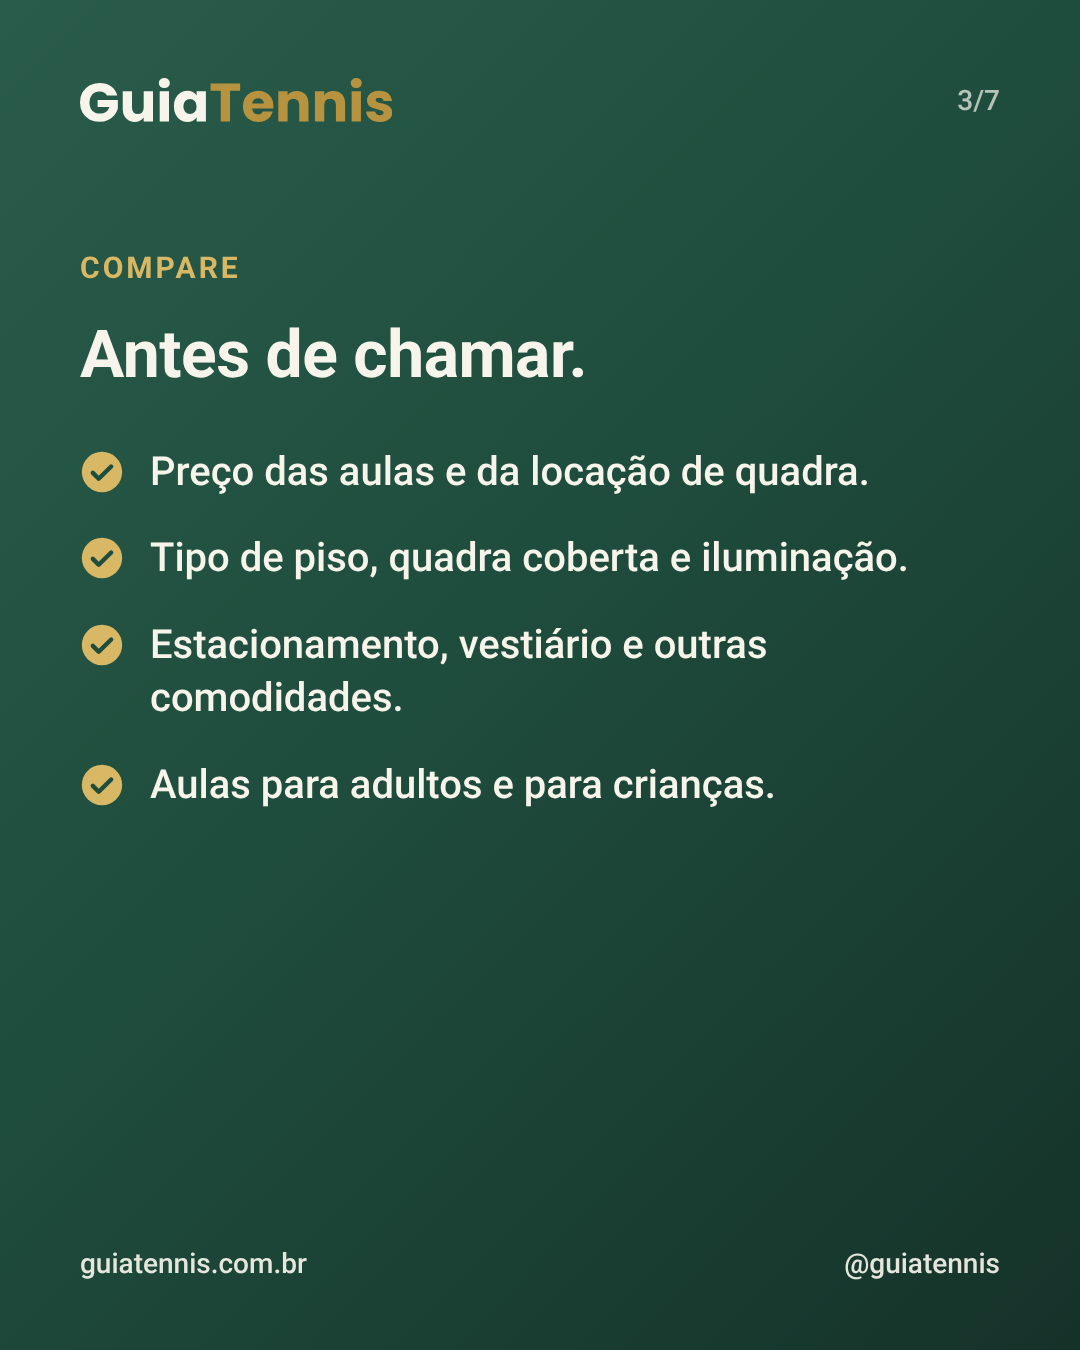
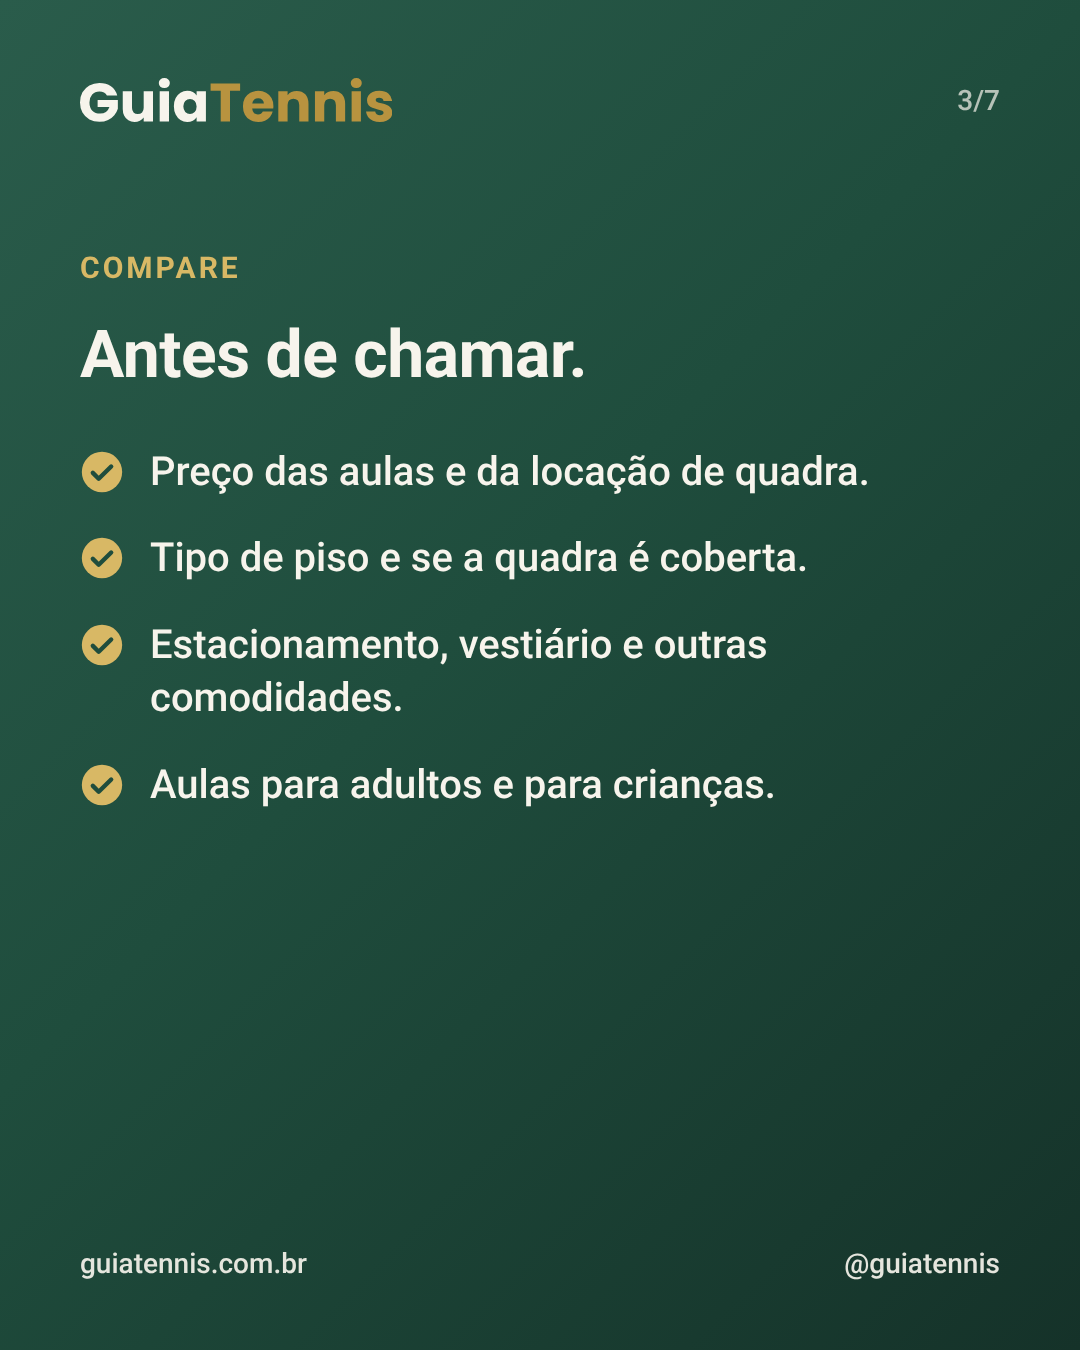
Kit do Instagram conferido com o site: sem filtro Crianças na busca, recursos por plano e sem prometer preço em todas
Claude-Session: https://claude.ai/code/session_013HDjzM8Wjp8KK1LoemJUSu

Changed region(s): [[0.3361, 0.4044, 0.825, 0.4356]]

diff --git a/divulgacao/lancamento/gerar-lancamento.js b/divulgacao/lancamento/gerar-lancamento.js
@@ -25,7 +25,7 @@ const UI = {
   busca: (claro) => painel(`
     <div style="display:flex;align-items:center;gap:22px;padding:28px 30px;border-radius:20px;background:${CREME};border:2px solid rgba(31,77,61,.2)">${lupa(VERDE)}<span style="font-size:40px;font-weight:500;color:${VERDE}">Moema, São Paulo</span><span style="width:3px;height:44px;background:${DOURADO}"></span></div>
     <div style="display:flex;align-items:center;gap:16px;margin-top:28px;font-size:34px;font-weight:700;color:${claro ? VERDE : DOURADO_CLARO}">${mira(claro ? VERDE : DOURADO_CLARO)} Usar minha localização</div>`, claro),
-  filtros: (claro) => painel(`<div style="display:flex;flex-wrap:wrap;gap:18px">${[['Aulas', 1], ['Locação', 0], ['Coberta', 1], ['Saibro', 0], ['Rápida', 0], ['Crianças', 0], ['Quadras públicas', 0]].map(([n, on]) => `
+  filtros: (claro) => painel(`<div style="display:flex;flex-wrap:wrap;gap:18px">${[['Aulas', 1], ['Locação', 0], ['Coberta', 1], ['Saibro', 0], ['Rápida', 0], ['Aberto agora', 0], ['Quadras públicas', 0]].map(([n, on]) => `
     <span style="padding:16px 28px;border-radius:999px;font-size:32px;font-weight:600;${on ? `background:${claro ? VERDE : DOURADO_CLARO};color:${claro ? CREME : VERDE}` : `border:2px solid ${claro ? 'rgba(31,77,61,.35)' : 'rgba(247,244,236,.4)'};color:${claro ? VERDE : CREME}`}">${n}</span>`).join('')}</div>
     <div style="margin-top:30px;font-size:30px;font-weight:500;opacity:.8">Ordenar: <b>Mais perto</b> · Mais bem avaliadas · Menor preço</div>`, claro),
   ficha: (claro) => painel(['Opções para jogar, com os preços', 'Estrutura: piso, cobertura e comodidades', 'Avaliações de quem joga', 'Horário e como chegar'].map((x, i) => `
@@ -85,7 +85,7 @@ function stories({ eyebrow = '', titulo = '', texto = '' }) {
 const passoAPasso = [
   { grande: true, quadra: 560, eyebrow: 'Passo a passo', titulo: 'Como encontrar aula de tênis perto de você em 1 minuto.', texto: 'Salve para usar quando precisar.', rodape: 'Deslize ›' },
   { tom: 'creme', ui: 'busca', eyebrow: 'Passo 1', titulo: 'Diga onde você está.', texto: 'Em guiatennis.com.br, digite o bairro ou o CEP, ou toque em "Usar minha localização".' },
-  { ui: 'filtros', eyebrow: 'Passo 2', titulo: 'Filtre do seu jeito.', texto: 'Aula ou locação, piso, quadra coberta e aulas para crianças.' },
+  { ui: 'filtros', eyebrow: 'Passo 2', titulo: 'Filtre do seu jeito.', texto: 'Aula ou locação, piso, quadra coberta, preço e horário.' },
   { tom: 'creme', ui: 'ficha', eyebrow: 'Passo 3', titulo: 'Abra a ficha da academia.', texto: 'Tudo o que você precisa saber antes de chamar:' },
   { ui: 'whatsapp', eyebrow: 'Passo 4', titulo: 'Chame direto no WhatsApp.', texto: 'Sem intermediário e sem taxa: você combina o horário e o valor com a academia.' },
   { tom: 'creme', ui: 'varias', eyebrow: 'Dica', titulo: 'Quer comparar preços?', texto: 'Na lista da busca, peça o preço a várias academias de uma vez.' },
@@ -103,11 +103,11 @@ const funcoes = [
 ];
 // ---------- Carrossel 2 (domingo): o lançamento ----------
 const lancamento = [
-  { grande: true, quadra: 560, eyebrow: 'Chegou', titulo: 'O novo GuiaTennis está no ar.', texto: 'Aula e quadra de tênis perto de você, com preço à vista.', rodape: 'Deslize ›' },
+  { grande: true, quadra: 560, eyebrow: 'Chegou', titulo: 'O novo GuiaTennis está no ar.', texto: 'Aula e quadra de tênis perto de você: compare e fale direto com a academia.', rodape: 'Deslize ›' },
   { tom: 'creme', eyebrow: 'Busque', titulo: 'Pelo seu bairro.', texto: 'Digite o bairro ou o CEP, ou use a sua localização. As academias mais perto aparecem primeiro, na lista ou no mapa.' },
   { eyebrow: 'Compare', titulo: 'Antes de chamar.', itens: [
     'Preço das aulas e da locação de quadra.',
-    'Tipo de piso, quadra coberta e iluminação.',
+    'Tipo de piso e se a quadra é coberta.',
     'Estacionamento, vestiário e outras comodidades.',
     'Aulas para adultos e para crianças.'] },
   { tom: 'creme', eyebrow: 'Confie', titulo: 'Avaliações de quem joga.', texto: 'Só contas com e-mail confirmado avaliam, uma vez por academia. A academia pode responder, mas não pode apagar.' },
@@ -119,11 +119,11 @@ const lancamento = [
 const academias = [
   { grande: true, quadra: 560, eyebrow: 'Para academias de tênis', titulo: 'A sua academia no GuiaTennis.', texto: 'Mais alunos chegando pelo WhatsApp, sem taxa por aluno.', rodape: 'Deslize ›' },
   { tom: 'creme', eyebrow: 'Quem chega já sabe o que quer', titulo: 'O jogador chama pronto para marcar.', texto: 'Ele vê preço, estrutura e avaliações antes de chamar. A conversa no WhatsApp já começa pela aula ou pelo horário.' },
-  { eyebrow: 'GuiaTennis Parceiros', titulo: 'Tudo da academia em um só lugar.', itens: [
-    'Ficha completa, com fotos, preços e horários.',
+  { eyebrow: 'GuiaTennis Parceiros, grátis', titulo: 'Tudo da academia em um só lugar.', itens: [
+    'Preços, horários e todas as comodidades na ficha.',
+    'Fotos da academia.',
     'Resposta pública a cada avaliação.',
-    'Quantos jogadores chamaram a academia.',
-    'Equipe com acesso, cada um com a sua função.'] },
+    'QR code da ficha para a recepção.'], rodape: 'Nos planos Completo e Premium: mais fotos, Instagram e site e quantos chamaram' },
   { tom: 'creme', eyebrow: 'Fundadoras: 15 vagas', titulo: 'O selo "Fundadora do GuiaTennis".', texto: 'Os 15 primeiros donos de academia a chegar ao GuiaTennis ganham o selo na ficha, para sempre.' },
   { grande: true, quadra: 560, eyebrow: 'guiatennis.com.br/parceiros', titulo: 'Comece grátis.', texto: 'Cadastre a academia ou assuma a ficha que já está no Guia.', rodape: 'Marque a academia em que você joga' },
 ];

diff --git a/divulgacao/lancamento/ROTEIRO.md b/divulgacao/lancamento/ROTEIRO.md
@@ -44,7 +44,7 @@ Destaques fixos: **Como usar** (o Reels de domingo), **Academias** (o carrossel 
 
 > O novo GuiaTennis está no ar. 🎾
 >
-> Busque pelo seu bairro, compare preço e estrutura e fale direto com a academia pelo WhatsApp. Sem
+> Busque pelo seu bairro, compare preço, estrutura e avaliações e fale direto com a academia pelo WhatsApp. Sem
 > intermediário, sem taxa e sem cadastro para buscar.
 >
 > Comente o seu bairro: respondemos com as academias de lá.
@@ -84,27 +84,29 @@ verde"** do Instagram (Reels › Efeitos › Tela verde) com um print do site. D
 
 **Reels 1 (sexta) — "Como achar aula de tênis perto de você"**
 - Texto na tela: **"Aula de tênis perto de você em 1 minuto"**
-- "Quer jogar tênis e não sabe por onde começar? Olha só." (tela verde com a busca) "Entra no
-  guiatennis.com.br, digita o seu bairro ou toca em 'Usar minha localização'." (print da lista) "Aparecem as
-  academias mais perto, com o preço." (print da ficha) "Abre a que você gostou, vê a quadra, o preço e as
-  avaliações e chama direto no WhatsApp. Sem taxa. Salva este vídeo e manda para quem quer começar."
+- "Quer jogar tênis e não sabe por onde começar? Veja como é simples." (tela verde com a busca) "Entre no
+  guiatennis.com.br, digite o seu bairro ou toque em 'Usar minha localização'." (print da lista) "Aparecem as
+  academias mais perto, com o preço de quem informa." (print da ficha) "Abra a de que você gostou, veja a
+  quadra, o preço e as avaliações e chame direto no WhatsApp, sem taxa. Salve este vídeo e mande para quem
+  quer começar."
 
 **Reels 2 — "Quanto custa aula de tênis em São Paulo?"**
 - Texto na tela: **"Quanto custa aula de tênis em SP?"**
-- "Essa é a pergunta que mais recebemos. Depende do bairro e do tipo de aula: individual, em dupla ou em
-  grupo." (tela verde com o filtro "Menor preço") "No GuiaTennis, você ordena por menor preço e vê o valor de
-  cada academia antes de chamar. Comenta o seu bairro que eu respondo com as opções de lá."
+- "Essa é uma das perguntas que mais recebemos. Depende do bairro e do tipo de aula: individual, em dupla
+  ou em grupo." (tela verde com a ordem "Menor preço") "No GuiaTennis, você ordena por menor preço e vê o
+  valor antes de chamar, nas academias que informam o preço. Comente o seu bairro, e eu respondo com as
+  opções de lá."
 
 **Reels 3 — "Seu filho quer jogar tênis?"**
 - Texto na tela: **"Aula de tênis para crianças perto de você"**
-- "Seu filho quer jogar tênis? Usa o filtro 'Crianças' no GuiaTennis." (print do filtro) "Aparecem só as
-  academias com aula infantil, com a idade de cada turma e o preço. Manda para a mãe ou o pai que está
-  procurando."
+- "Seu filho quer jogar tênis? No GuiaTennis, busque pelo seu bairro e abra a ficha das academias." (print
+  da ficha) "No cartão 'Aulas para crianças', aparecem as turmas por idade e o preço. Mande este vídeo para
+  quem está procurando aula para o filho."
 
 **Reels 4 — "Vai viajar? Leva a raquete"**
 - Texto na tela: **"Vai viajar? Leve a raquete"**
-- "Vai viajar e quer jogar tênis lá? No menu do GuiaTennis, toca em 'Vou viajar', informa a cidade e onde
-  você vai ficar, e aparecem as quadras mais perto. Salva para a próxima viagem."
+- "Vai viajar e quer jogar tênis lá? No menu do GuiaTennis, toque em 'Vou viajar', informe a cidade e onde
+  você vai ficar, e aparecem as quadras mais perto. Salve para a próxima viagem."
 
 Legenda de todos: a frase do texto na tela, mais "Link na bio: guiatennis.com.br" e uma pergunta para os
 comentários.
@@ -118,7 +120,7 @@ Grave a tela do celular no site (gravação de tela do próprio celular):
 3. Rolar a lista devagar e abrir uma ficha com preço e foto.
 4. Mostrar o preço e a estrutura e tocar em "Falar no WhatsApp" (pare antes de enviar).
 
-Texto na tela: "Aula de tênis perto de você, com preço à vista." · "Compare." · "Fale direto no WhatsApp."
+Texto na tela: "Aula de tênis perto de você." · "Compare preço e estrutura." · "Fale direto no WhatsApp."
 Música em alta do Instagram, baixa.
 
 ## Mensagem para as academias (WhatsApp, segunda)
@@ -127,8 +129,8 @@ Música em alta do Instagram, baixa.
 > São Paulo.
 >
 > A [nome da academia] já está no Guia, e quem procura aula ou quadra na região chega direto ao seu
-> WhatsApp, sem taxa por aluno. Para deixar a ficha completa (preços, fotos, horários) e acompanhar quantos
-> jogadores chamaram, basta entrar no GuiaTennis Parceiros, que é grátis:
+> WhatsApp, sem taxa por aluno. Para deixar a ficha completa (preços, horários e fotos) e responder às
+> avaliações, basta entrar no GuiaTennis Parceiros, que é grátis:
 > guiatennis.com.br/parceiros
 >
 > Os 15 primeiros donos de academia a chegar ganham o selo "Fundadora do GuiaTennis" na ficha, para sempre.
